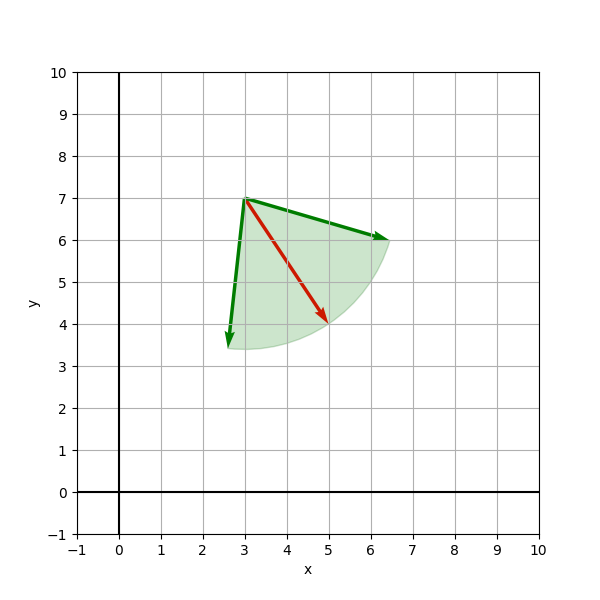
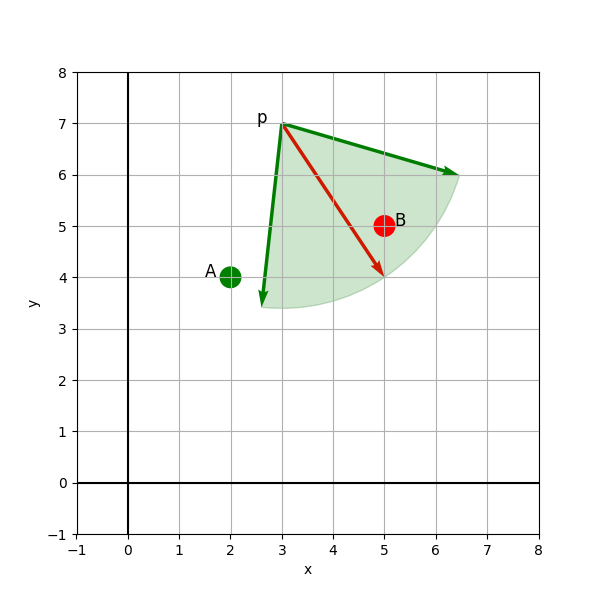
docs: update dot product article

diff --git a/docs/articles/computer-graphics/plots/dot-product/fov_solved.py b/docs/articles/computer-graphics/plots/dot-product/fov_solved.py
@@ -61,9 +61,43 @@ circle_red = plt.Circle((2, 4), 0.2, color='green', fill=True)
 ax.add_patch(circle_green)
 ax.add_patch(circle_red)
 
+A = np.array([-1, -3])
+ax.quiver(x, y, A[0], A[1], angles='xy', scale_units='xy', scale=1, color='black')
+B = np.array([2, -2])
+ax.quiver(x, y, B[0], B[1], angles='xy', scale_units='xy', scale=1, color='black')
+
+cos_alpha = np.dot(A, npc) / (np.linalg.norm(A) * np.linalg.norm(npc))
+alpha = np.arccos(cos_alpha)
+alpha_deg = np.degrees(alpha)
+arc_radius_alpha = 3.2
+arc_alpha = Arc((3, 7), arc_radius_alpha, arc_radius_alpha,
+          angle=np.degrees(np.arctan2(npc[1], npc[0])),
+          theta1=-alpha_deg,
+          theta2=0,
+          edgecolor='black')
+ax.add_patch(arc_alpha)
+
+cos_beta = np.dot(B, npc) / (np.linalg.norm(B) * np.linalg.norm(npc))
+beta = np.arccos(cos_beta)
+beta_deg = np.degrees(beta)
+arc_radius_beta = 4.2
+arc_beta = Arc((3, 7), arc_radius_beta, arc_radius_beta,
+          angle=np.degrees(np.arctan2(npc[1], npc[0])),
+          theta1=0,
+          theta2=beta_deg,
+          edgecolor='black')
+ax.add_patch(arc_beta)
+
 # texts
 ax.text(2.5, 7 , 'p', color='black', fontsize=12)
+ax.text(4, 4.2 , r'$\vec{v}$', color='black', fontsize=12)
+ax.text(1.8, 4.8 , r'$\vec{A}$', color='black', fontsize=12)
+ax.text(4.3, 5.8 , r'$\vec{B}$', color='black', fontsize=12)
 ax.text(1.5, 4 , 'A', color='black', fontsize=12)
 ax.text(5.2, 5 , 'B', color='black', fontsize=12)
+ax.text(3, 6, rf'$\alpha$', color='black', fontsize=12)
+ax.text(4, 5.6, rf'$\beta$', color='black', fontsize=10)
+ax.text(0.5, 6.5, rf'$\alpha = {alpha_deg:.2f}^\circ$', color='black', fontsize=12)
+ax.text(0.5, 6, rf'$\beta = {beta_deg:.2f}^\circ$', color='black', fontsize=12)
 
 plt.show()

diff --git a/docs/bibliography.md b/docs/bibliography.md
@@ -7,9 +7,12 @@ import {BackButton} from "../src/components/BackButton.js";
 
 # Bibliography
 
+### Akenine-Möller, Thomas et al.
+ - [RTR] **Real-Time Rendering**, Fourth Edition, A. K. Peters, Ltd., USA, 2018 <a name="rtr"></a>
+
 ### **Asteroth, Alexander; Baier, Christel**
 
- - [BA02] Asteroth, Alexander u Baier, Christel, **Theoretische Informatik**, Pearson Deutschland, 2002, url: https://elibrary.pearson.de/book/99.150005/9783863266646  <a name="ba02"></a>
+ - [BA02] **Theoretische Informatik**, Pearson Deutschland, 2002, url: https://elibrary.pearson.de/book/99.150005/9783863266646  <a name="ba02"></a>
 
 ### **Alur, Deepak; John Crupi; Dan Malks**
 

diff --git a/docs/articles/computer-graphics/img/dot-product/README.md b/docs/articles/computer-graphics/img/dot-product/README.md
@@ -1,0 +1,3 @@
+### commandos_origins.png
+
+Screenshot grabbed from the IGN review of `Commandos: Origins`, available at https://www.youtube.com/watch?v=PL_IXuNe1wI
